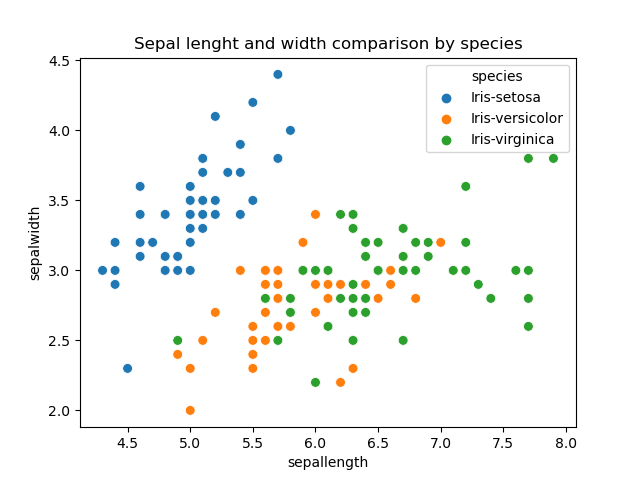
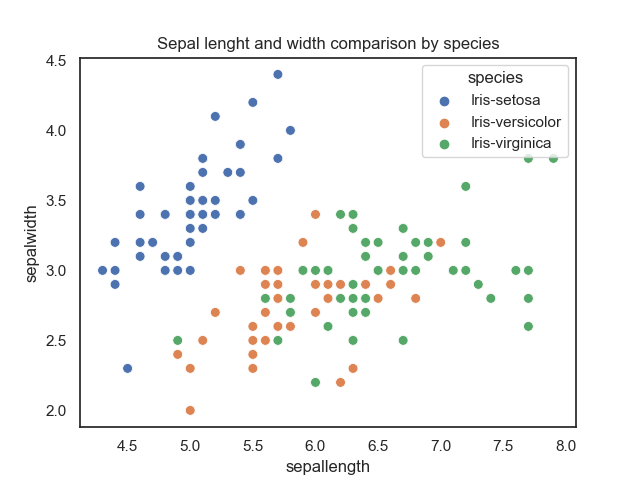
Readme updated with code

diff --git a/analysis.py b/analysis.py
@@ -37,6 +37,7 @@ with open("summary.txt", "a+") as f:
     f.write("Check for any missing values: \n{}\n\n".format(na))
     f.write("Top of dataset: \n{}\n\n".format(head))
     f.write("Data sample of 15 instances: \n{} \n\n".format(sample))
+    f.write("Counts of observations per species: \n{} \n\n".format(counts))
     f.write("\n\n\t Decriptive statistics by Iris flower species: \n\n")
     f.write("Setosa:\n{}\n\n".format(descr1))
     f.write("Virginica:\n{}\n\n".format(descr2))
@@ -49,7 +50,7 @@ iris.hist()
 plt.savefig("1simple_histogram.png")
 
 #Histogram by Specie
-sns.set_style=("darkgrid")
+sns.set_theme(style="darkgrid")
 fig, axs = plt.subplots(2, 2, figsize=(5, 5))
 fig.suptitle('Setosa Histograms')
 sns.histplot(data=setosa, x="sepallength", kde=False, color="blue", ax=axs[0, 0])
@@ -59,7 +60,7 @@ sns.histplot(data=setosa, x="petalwidth", kde=False, color="brown", ax=axs[1, 1]
 plt.tight_layout()
 plt.savefig("2setosa_histogram.png")
 
-sns.set_style=("darkgrid")
+sns.set_theme(style="darkgrid")
 fig, axs = plt.subplots(2, 2, figsize=(5, 5))
 fig.suptitle('Versicolor Histograms')
 sns.histplot(data=versicolor, x="sepallength", kde=False, color="y", ax=axs[0, 0])
@@ -69,7 +70,7 @@ sns.histplot(data=versicolor, x="petalwidth", kde=False, color="magenta", ax=axs
 plt.tight_layout()
 plt.savefig("3versicolor_histogram.png")
 
-sns.set_style=("darkgrid")
+sns.set_theme(style="darkgrid")
 fig, axs = plt.subplots(2, 2, figsize=(5, 5))
 fig.suptitle('Virginica Histograms')
 sns.histplot(data=virginica, x="sepallength", kde=False, color="teal", ax=axs[0, 0])
@@ -78,26 +79,31 @@ sns.histplot(data=virginica, x="petallength", kde=False, color="yellow", ax=axs[
 sns.histplot(data=virginica, x="petalwidth", kde=False, color="m", ax=axs[1, 1])
 plt.tight_layout()
 plt.savefig("4virginica_histogram.png")
+plt.show()
 
 #Iris relationship pair plot by species with histogram
+sns.set_theme(style="white")
 p=sns.pairplot(iris, hue="species", height=2)
 p.map_diag(sns.histplot)
 p.map_offdiag(sns.scatterplot)
 plt.savefig("5pairplot_histogram.png")
+plt.show()
 
 #Scatterplots by species
 plt.title("Sepal lenght and width comparison by species")
-sns.set_style=("whitegrid")
+sns.set_theme(style="white")
 sns.scatterplot(x=iris["sepallength"], y=iris["sepalwidth"], hue=iris["species"],s=50)
 plt.savefig("6scatterplot1.png")
+plt.show()
 
 plt.title("Petal lenght and width comparison by species")
-sns.set_style=("whitegrid")
+sns.set_theme(style="white")
 sns.scatterplot(x=iris["petallength"], y=iris["petalwidth"], hue=iris["species"],s=50)
 plt.savefig("7scatterplot2.png")
+plt.show()
 
 #Multivariable plots for comparison
-sns.set_style=('white')
+sns.set_theme(style="white")
 sns.distplot(setosa['sepallength'], color='green', kde=True, label='Setosa')
 sns.distplot(versicolor['sepallength'], color='blue', kde=True, label='Versicolor')
 sns.distplot(virginica['sepallength'], color='red', kde=True, label='Virginica')
@@ -106,8 +112,9 @@ plt.title('Sepal Length Comparson by Species')
 plt.xlabel('Sepal Length in cm')  
 plt.ylabel('Quantity')
 plt.savefig("8multivariable1.png")
+plt.show()
 
-sns.set_style=('white')
+sns.set_theme(style="white")
 sns.distplot(setosa['sepalwidth'], color='green', kde=True, label='Setosa')
 sns.distplot(versicolor['sepalwidth'], color='blue', kde=True, label='Versicolor')
 sns.distplot(virginica['sepalwidth'], color='red', kde=True, label='Virginica')
@@ -116,8 +123,9 @@ plt.title('Sepal Width Comparson by Species')
 plt.xlabel('Sepal Width in cm')  
 plt.ylabel('Quantity')
 plt.savefig("9multivariable2.png")
+plt.show()
 
-sns.set_style=('dark')
+sns.set_theme(style="white")
 sns.distplot(setosa['petallength'], color='green', kde=True, label='Setosa')
 sns.distplot(versicolor['petallength'], color='blue', kde=True, label='Versicolor')
 sns.distplot(virginica['petallength'], color='red', kde=True, label='Virginica')
@@ -126,8 +134,9 @@ plt.title('Petal Length Comparson by Species')
 plt.xlabel('Petal Length in cm')  
 plt.ylabel('Quantity')
 plt.savefig("10multivariable3.png")
+plt.show()
 
-sns.set_style=('dark')
+sns.set_theme(style="white")
 sns.distplot(setosa['petalwidth'], color='green', kde=True, label='Setosa')
 sns.distplot(versicolor['petalwidth'], color='blue', kde=True, label='Versicolor')
 sns.distplot(virginica['petalwidth'], color='red', kde=True, label='Virginica')
@@ -136,5 +145,6 @@ plt.title('Petal width Comparson by Species')
 plt.xlabel('Petal width in cm')  
 plt.ylabel('Quantity')
 plt.savefig("11multivariable4.png")
+plt.show()
 
-print("ALL works ook")
+print("Hooray")

diff --git a/README.md b/README.md
@@ -13,6 +13,7 @@ Photo by <a href="https://unsplash.com/@timaesthetic?utm_source=unsplash&utm_med
 
 Photo by <a href="https://unsplash.com/@stepanovgg?utm_source=unsplash&utm_medium=referral&utm_content=creditCopyText">Dmitry Stepanov</a> on <a href="https://unsplash.com/s/photos/iris-flower?utm_source=unsplash&utm_medium=referral&utm_content=creditCopyText">Unsplash</a>
   
+<a href="https://www.fs.fed.us/wildflowers/beauty/iris/flower.shtml">U.S Forest Service Website</a>
 
 <p>Analysis of this dataset will be performed using Python, that is a powerful high level programming language. Various Python packages will be used to explore and summarize the findings.&nbsp;</p>
 <p>Dataset is available to be downloaded from UCI Machine Learning Repository. It contains two files, one for data and one for dataset description.</p>
@@ -39,11 +40,11 @@ counts = iris["species"].value_counts()
 
 ![Data shape, missing values count and top of dataset](https://github.com/Mantvydas-data/pands-project2021/blob/main/readme_images/1.PNG) 
 
-<p>Also, sample of 15 instances:</p>
+<p>Also, sample of 15 instances and counts of observations per species:</p>
 
 ![A sample of 15 instances](https://github.com/Mantvydas-data/pands-project2021/blob/main/readme_images/2.PNG)
 
-<p>To get descriptive statistics by flower species we divide dataset into 3 sections:</p>
+<p>To get descriptive statistics by flower species we divide dataset into 3 sections and use describe function:</p>
 
 ```python
 descr1 = pd.DataFrame(setosa).describe()
@@ -53,7 +54,8 @@ descr3 = pd.DataFrame(versicolor).describe()
 ![Descriptive statistics by flower species](https://github.com/Mantvydas-data/pands-project2021/blob/main/readme_images/3.PNG)
 
 
-<p>All the data generated so far is being saved into a summary.txt file in an append mode:</p>
+<p>All the data generated so far is being saved into a summary.txt file in an append mode.</p>
+<p>Fot text formating in txt file we use string escape characters:</p>
 
 ```python
 with open("summary.txt", "a+") as f:
@@ -69,23 +71,94 @@ with open("summary.txt", "a+") as f:
 ```
 
 # Plotting
-<p>For plotting we are using matplotlib.pyplot and seaborn with seaborn having a nicer look all together without extensive tweaking of code.</p>
+<p>For plotting we are using matplotlib.pyplot and seaborn packages with seaborn having a nicer all over look </p>
+
+```python
+# Simple Histogram
+iris.hist()
+plt.savefig("1simple_histogram.png")
+```
+<p>Below is simple histogram showing sepal lenght/width and petal lenght/width in cm and total instances it was observed.</p>
 
 ![Simple histogram](https://github.com/Mantvydas-data/pands-project2021/blob/main/1simple_histogram.png)
 
+<p>Following three histogram looks closely at sepal lenght/width and petal lenght/width in cm, but separated by Iris species.</p>
 
-![Setosa histogram](https://github.com/Mantvydas-data/pands-project2021/blob/main/2setosa_histogram.png)
-![Versicolor histogram](https://github.com/Mantvydas-data/pands-project2021/blob/main/3versicolor_histogram.png)
+![Setosa histogram](https://github.com/Mantvydas-data/pands-project2021/blob/main/2setosa_histogram.png) ![Versicolor histogram](https://github.com/Mantvydas-data/pands-project2021/blob/main/3versicolor_histogram.png)
 ![Virginica histogram](https://github.com/Mantvydas-data/pands-project2021/blob/main/4virginica_histogram.png)
 
+<p>Code for it below, we are using dark grid backgroud with 4 subplots. ax specifies its location in the grid. 
+Thight layout function added for graph text not to overlap. Figure is saved as .png file named "2setosa_histogram.png".
+Modified plot function is used three times to get three plots divided by species changing data parameter.</p>
+
+```python
+# Combination Histogram
+sns.set_theme(style="darkgrid")
+fig, axs = plt.subplots(2, 2, figsize=(5, 5))
+fig.suptitle('Setosa Histograms')
+sns.histplot(data=setosa, x="sepallength", kde=False, color="blue", ax=axs[0, 0])
+sns.histplot(data=setosa, x="sepalwidth", kde=False, color="pink", ax=axs[0, 1])
+sns.histplot(data=setosa, x="petallength", kde=False, color="green", ax=axs[1, 0])
+sns.histplot(data=setosa, x="petalwidth", kde=False, color="brown", ax=axs[1, 1])
+plt.tight_layout()
+plt.savefig("2setosa_histogram.png")
+```
+
+<p>Pair plot below has a combination of histograms and scatterplots, it contains a lot of condensed data in one plot,
+but is more appealing for the eye and can be used to compare data as differences can be clearly identified.</p>
+
 ![Pairplot with histograms](https://github.com/Mantvydas-data/pands-project2021/blob/main/5pairplot_histogram.png)
+
+<p>Background style is set as white, hue sets class of the parameter that joins all the combination of plots,
+map_diag sets plot styles for diagonal positions while map_offdiag sets the rest.</p>
+
+```python
+# Pairplots with histograms
+sns.set_theme(style="white")
+p=sns.pairplot(iris, hue="species", height=2)
+p.map_diag(sns.histplot)
+p.map_offdiag(sns.scatterplot)
+plt.savefig("5pairplot_histogram.png")
+plt.show()
+```
+
+<p>Scatterplots are good at highlighting clustered data as seen in below plots.
+It is clear that Iris-setosa petal width and lenght is considerably smaller compared with other two species, while it has the widest sepal.</p>
 
 ![Scatterplot1](https://github.com/Mantvydas-data/pands-project2021/blob/main/6scatterplot1.png)
 ![Scatterplot2](https://github.com/Mantvydas-data/pands-project2021/blob/main/7scatterplot2.png)
 
+<p>Background style is set as white, we identify parameters to be compared and assign them on x and y axis,s=50 sets dot diameter for value points on the plot,
+most seaborn plots are generated with plot legend as a standard.</p>
 
-![Multivariable1](https://github.com/Mantvydas-data/pands-project2021/blob/main/8multivariable1.png) ![Multivariable2](https://github.com/Mantvydas-data/pands-project2021/blob/main/9multivariable2.png)
-![Multivariable3](https://github.com/Mantvydas-data/pands-project2021/blob/main/10multivariable3.png) ![Multivariable4](https://github.com/Mantvydas-data/pands-project2021/blob/main/11multivariable4.png)
+```python
+#Scatterplots by species
+plt.title("Sepal lenght and width comparison by species")
+sns.set_theme(style="white")
+sns.scatterplot(x=iris["sepallength"], y=iris["sepalwidth"], hue=iris["species"],s=50)
+plt.savefig("6scatterplot1.png")
+plt.show()
+```
+
+<p>Multivariable plots are overlaying histograms, below we have four plots displaying Iris flower kind separated by different parameter.</p>
+
+![Multivariable1](https://github.com/Mantvydas-data/pands-project2021/blob/main/8multivariable1.png) |![Multivariable2](https://github.com/Mantvydas-data/pands-project2021/blob/main/9multivariable2.png)
+![Multivariable3](https://github.com/Mantvydas-data/pands-project2021/blob/main/10multivariable3.png) |![Multivariable4](https://github.com/Mantvydas-data/pands-project2021/blob/main/11multivariable4.png)
+
+```python
+#Multivariable plots
+sns.set_theme(style="white")
+sns.distplot(setosa['sepallength'], color='green', kde=True, label='Setosa')
+sns.distplot(versicolor['sepallength'], color='blue', kde=True, label='Versicolor')
+sns.distplot(virginica['sepallength'], color='red', kde=True, label='Virginica')
+plt.legend()
+plt.title('Sepal Length Comparson by Species')
+plt.xlabel('Sepal Length in cm')  
+plt.ylabel('Quantity')
+plt.savefig("8multivariable1.png")
+plt.show()
+```
+<p>Background style is set as white, comparison parameter is 'sepallength', label is identified for plot legend, kde as True displays smooth value distribution line.</p>
 
 <h3>References of sources used:</h3>
 <p>https://en.wikipedia.org/wiki/Iris_flower_data_set</p>
@@ -102,3 +175,5 @@ with open("summary.txt", "a+") as f:
 <p>https://seaborn.pydata.org/examples/index.html</p>
 <p>https://dev.to/thalesbruno/subplotting-with-matplotlib-and-seaborn-5ei8</p>
 <p>https://www.markdownguide.org/basic-syntax/</p>
+<p>https://stackoverflow.com/questions/24319505/how-can-one-display-images-side-by-side-in-a-github-readme-md</p>
+<p>https://wordtohtml.net/</p>
